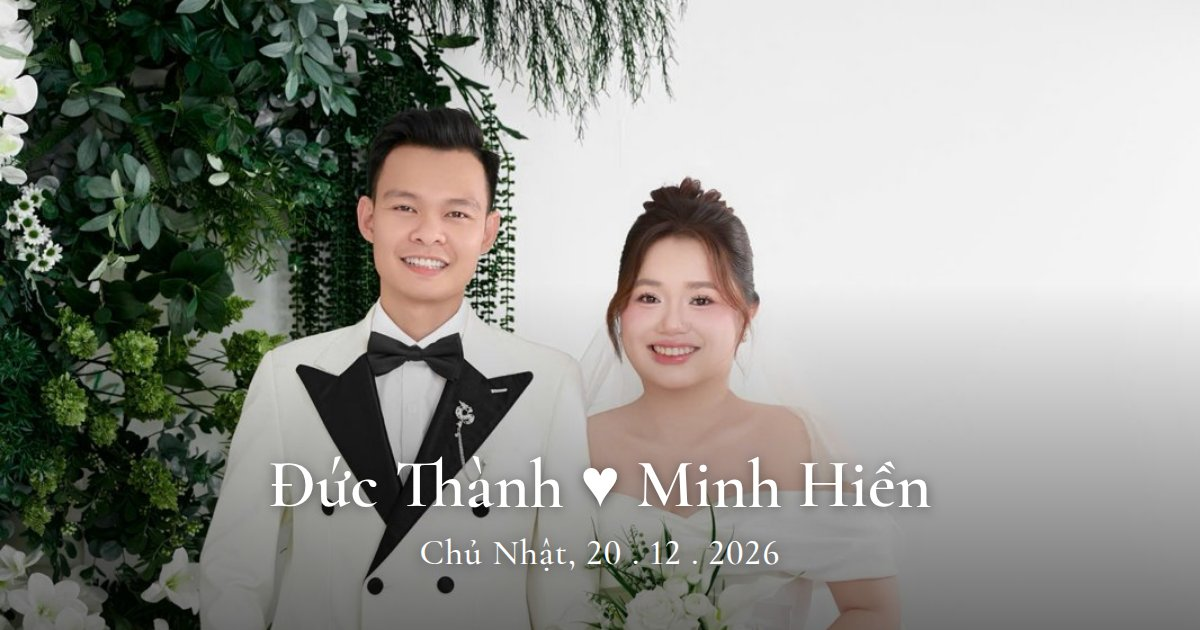
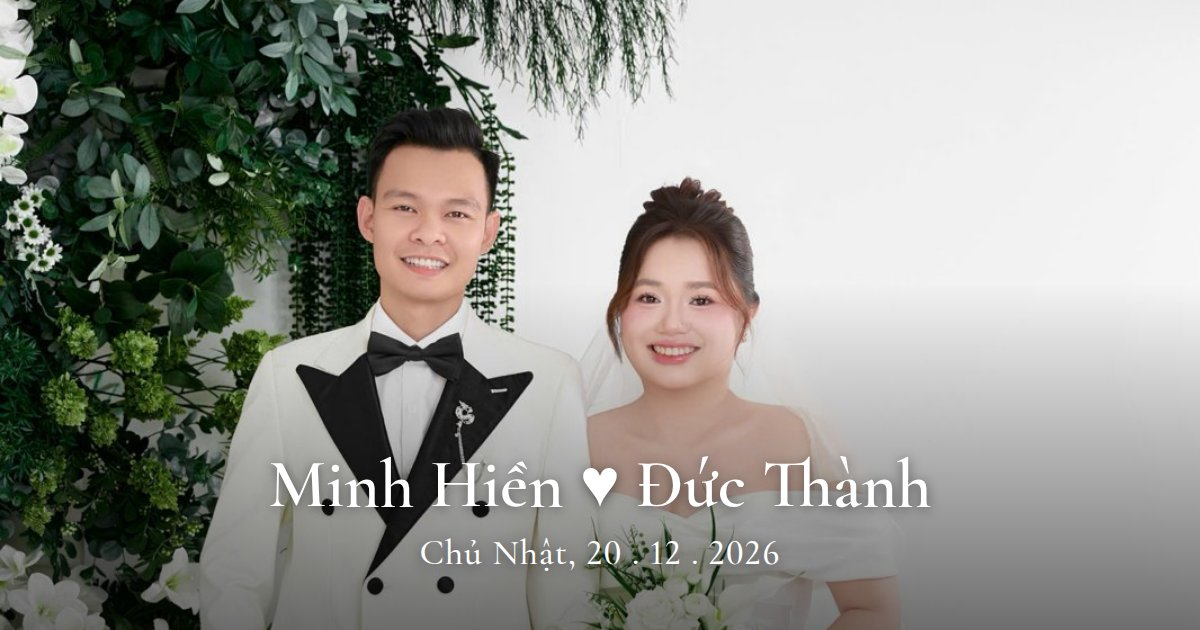
fix: thiệp Minh Hiền & Đức Thành — giữ thứ tự tên cô dâu trước như cũ (khách chỉ yêu cầu đổi phông chữ) (issue #24)

Changed region(s): [[0.2158, 0.7238, 0.4625, 0.8143], [0.5242, 0.7238, 0.7708, 0.8143]]

diff --git a/dist/assets/index-zJI3M-SO.js b/dist/assets/index-zJI3M-SO.js
@@ -97,7 +97,7 @@ Error generating stack: `+i.message+`
  *
  * This source code is licensed under the ISC license.
  * See the LICENSE file in the root directory of this source tree.
- */const rp=yt("X",[["path",{d:"M18 6 6 18",key:"1bl5f8"}],["path",{d:"m6 6 12 12",key:"d8bk6v"}]]),yc="Số nhà 35, Đường Tân Lập, Thôn Thống Nhất, Xã Nông Cống, Tỉnh Thanh Hoá",Wi="Số nhà 274, Đường 520, Thôn Văn Phú, Xã Tượng Lĩnh, Tỉnh Thanh Hoá",lp={label:"Nhà Gái",father:null,mother:null,address:yc},ip={label:"Nhà Trai",father:null,mother:null,address:Wi},op={hero:{subtitle:"Save The Date",names:["Đức Thành","Minh Hiền"]},couple:{groom:{role:"Chú rể",name:"Đức Thành"},bride:{role:"Cô dâu",name:"Minh Hiền"}},families:{sides:[ip,lp],fullNames:["Đức Thành","Minh Hiền"]},invitation:{kicker:"Trân Trọng Kính Mời",defaultGuest:"Quý khách",title:"Đến Dự Và Chia Sẻ Niềm Vui",dateParts:["20","12","2026"]},events:{mapLabel:"Xem vị trí",items:[{id:"tiec-cuoi",title:"Tiệc Mừng Cưới",time:"17:00 | Thứ Bảy",date:"19. 12. 2026",lunar:"( Tức Ngày 11 Tháng 11 Năm Bính Ngọ )",places:[{label:"Tại Tư Gia Nhà Gái",address:yc,mapQuery:"Thống Nhất, Nông Cống, Thanh Hoá"},{label:"Tại Tư Gia Nhà Trai",address:Wi,mapQuery:"Văn Phú, Tượng Lĩnh, Nông Cống, Thanh Hoá"}]},{id:"thanh-hon",title:"Lễ Thành Hôn",time:"09:00 | Chủ Nhật",date:"20. 12. 2026",lunar:"( Tức Ngày 12 Tháng 11 Năm Bính Ngọ )",places:[{label:"Tại Tư Gia Nhà Trai",address:Wi,mapQuery:"Văn Phú, Tượng Lĩnh, Nông Cống, Thanh Hoá"}]}]},countdown:{title:"Đếm Ngược Ngày Vui",target:"2026-12-20T09:00:00+07:00",labels:["Ngày","Giờ","Phút","Giây"]},calendar:{dateIso:"2026-12-20"},rsvp:{show:!1},gift:{button:"Gửi Mừng Cưới",title:"Hộp Quà Mừng Cưới",copyLabel:"Copy STK",copiedLabel:"Đã copy",saveQrLabel:"Lưu ảnh QR",accounts:[{holder:"LUONG THI HIEN",number:"0001277112789",bank:"MB Bank",qr:"/images/qr-mbbank.png"}]},thanks:{title:"Thank You",text:"Từ tận đáy lòng, chúng mình cảm ơn bạn đã dành tình cảm và sự hiện diện cho ngày vui này. Chính bạn đã góp phần làm nên một kỷ niệm hạnh phúc mà chúng mình sẽ luôn trân trọng."},music:{src:"/music/beautiful-in-white.mp3",volume:.45}},Be={hero:"/images/vay-1.jpg",groom:"/images/chu-re.jpg",bride:"/images/co-dau.jpg",dateStrip:["/images/ao-1.jpg","/images/ao-3.jpg","/images/ao-5.jpg"],polaroid:"/images/vay-4.jpg",circle:"/images/ao-4.jpg",album:["/images/vay-3.jpg","/images/ao-2.jpg","/images/ao-6.jpg","/images/nhan.jpg","/images/ao-7.jpg","/images/vay-1.jpg"],gift:"/images/ao-4.jpg",thankYou:"/images/vay-2.jpg"},Ju="guest-links:names",up="/tao-link";function sp(){try{return window.location.pathname.replace(/\/+$/,"")===up}catch{return!1}}function Yl(e,t){return`${e}/?khach=${encodeURIComponent(t)}`}async function ap(e){try{return await navigator.clipboard.writeText(e),!0}catch{const t=document.createElement("textarea");t.value=e,t.style.position="fixed",t.style.opacity="0",document.body.appendChild(t),t.select();const n=document.execCommand("copy");return document.body.removeChild(t),n}}function qu({text:e,label:t="Sao chép",className:n=""}){const[r,l]=P.useState(!1);async function i(){await ap(e)&&(l(!0),setTimeout(()=>l(!1),1500))}return a.jsxs("button",{type:"button",onClick:i,className:`inline-flex shrink-0 items-center gap-1.5 rounded-lg px-3 py-1.5 text-sm font-semibold transition ${r?"bg-green-600 text-white":"bg-[#9e3745] text-white hover:bg-[#7e2b37]"} ${n}`,children:[r?a.jsx(vc,{className:"h-4 w-4","aria-hidden":!0}):a.jsx(gc,{className:"h-4 w-4","aria-hidden":!0}),r?"Đã chép":t]})}function cp(){const e=P.useMemo(()=>window.location.origin,[]),[t,n]=P.useState(()=>{try{return localStorage.getItem(Ju)??""}catch{return""}}),[r,l]=P.useState(!0);P.useEffect(()=>{try{localStorage.setItem(Ju,t)}catch{}},[t]);const i=P.useMemo(()=>{const s=new Set;return t.split(`
+ */const rp=yt("X",[["path",{d:"M18 6 6 18",key:"1bl5f8"}],["path",{d:"m6 6 12 12",key:"d8bk6v"}]]),yc="Số nhà 35, Đường Tân Lập, Thôn Thống Nhất, Xã Nông Cống, Tỉnh Thanh Hoá",Wi="Số nhà 274, Đường 520, Thôn Văn Phú, Xã Tượng Lĩnh, Tỉnh Thanh Hoá",lp={label:"Nhà Gái",father:null,mother:null,address:yc},ip={label:"Nhà Trai",father:null,mother:null,address:Wi},op={hero:{subtitle:"Save The Date",names:["Minh Hiền","Đức Thành"]},couple:{groom:{role:"Chú rể",name:"Đức Thành"},bride:{role:"Cô dâu",name:"Minh Hiền"}},families:{sides:[lp,ip],fullNames:["Minh Hiền","Đức Thành"]},invitation:{kicker:"Trân Trọng Kính Mời",defaultGuest:"Quý khách",title:"Đến Dự Và Chia Sẻ Niềm Vui",dateParts:["20","12","2026"]},events:{mapLabel:"Xem vị trí",items:[{id:"tiec-cuoi",title:"Tiệc Mừng Cưới",time:"17:00 | Thứ Bảy",date:"19. 12. 2026",lunar:"( Tức Ngày 11 Tháng 11 Năm Bính Ngọ )",places:[{label:"Tại Tư Gia Nhà Gái",address:yc,mapQuery:"Thống Nhất, Nông Cống, Thanh Hoá"},{label:"Tại Tư Gia Nhà Trai",address:Wi,mapQuery:"Văn Phú, Tượng Lĩnh, Nông Cống, Thanh Hoá"}]},{id:"thanh-hon",title:"Lễ Thành Hôn",time:"09:00 | Chủ Nhật",date:"20. 12. 2026",lunar:"( Tức Ngày 12 Tháng 11 Năm Bính Ngọ )",places:[{label:"Tại Tư Gia Nhà Trai",address:Wi,mapQuery:"Văn Phú, Tượng Lĩnh, Nông Cống, Thanh Hoá"}]}]},countdown:{title:"Đếm Ngược Ngày Vui",target:"2026-12-20T09:00:00+07:00",labels:["Ngày","Giờ","Phút","Giây"]},calendar:{dateIso:"2026-12-20"},rsvp:{show:!1},gift:{button:"Gửi Mừng Cưới",title:"Hộp Quà Mừng Cưới",copyLabel:"Copy STK",copiedLabel:"Đã copy",saveQrLabel:"Lưu ảnh QR",accounts:[{holder:"LUONG THI HIEN",number:"0001277112789",bank:"MB Bank",qr:"/images/qr-mbbank.png"}]},thanks:{title:"Thank You",text:"Từ tận đáy lòng, chúng mình cảm ơn bạn đã dành tình cảm và sự hiện diện cho ngày vui này. Chính bạn đã góp phần làm nên một kỷ niệm hạnh phúc mà chúng mình sẽ luôn trân trọng."},music:{src:"/music/beautiful-in-white.mp3",volume:.45}},Be={hero:"/images/vay-1.jpg",groom:"/images/chu-re.jpg",bride:"/images/co-dau.jpg",dateStrip:["/images/ao-1.jpg","/images/ao-3.jpg","/images/ao-5.jpg"],polaroid:"/images/vay-4.jpg",circle:"/images/ao-4.jpg",album:["/images/vay-3.jpg","/images/ao-2.jpg","/images/ao-6.jpg","/images/nhan.jpg","/images/ao-7.jpg","/images/vay-1.jpg"],gift:"/images/ao-4.jpg",thankYou:"/images/vay-2.jpg"},Ju="guest-links:names",up="/tao-link";function sp(){try{return window.location.pathname.replace(/\/+$/,"")===up}catch{return!1}}function Yl(e,t){return`${e}/?khach=${encodeURIComponent(t)}`}async function ap(e){try{return await navigator.clipboard.writeText(e),!0}catch{const t=document.createElement("textarea");t.value=e,t.style.position="fixed",t.style.opacity="0",document.body.appendChild(t),t.select();const n=document.execCommand("copy");return document.body.removeChild(t),n}}function qu({text:e,label:t="Sao chép",className:n=""}){const[r,l]=P.useState(!1);async function i(){await ap(e)&&(l(!0),setTimeout(()=>l(!1),1500))}return a.jsxs("button",{type:"button",onClick:i,className:`inline-flex shrink-0 items-center gap-1.5 rounded-lg px-3 py-1.5 text-sm font-semibold transition ${r?"bg-green-600 text-white":"bg-[#9e3745] text-white hover:bg-[#7e2b37]"} ${n}`,children:[r?a.jsx(vc,{className:"h-4 w-4","aria-hidden":!0}):a.jsx(gc,{className:"h-4 w-4","aria-hidden":!0}),r?"Đã chép":t]})}function cp(){const e=P.useMemo(()=>window.location.origin,[]),[t,n]=P.useState(()=>{try{return localStorage.getItem(Ju)??""}catch{return""}}),[r,l]=P.useState(!0);P.useEffect(()=>{try{localStorage.setItem(Ju,t)}catch{}},[t]);const i=P.useMemo(()=>{const s=new Set;return t.split(`
 `).map(f=>f.replace(/\s+/g," ").trim()).filter(f=>f&&!s.has(f.toLowerCase())&&s.add(f.toLowerCase()))},[t]),o=i.map(s=>r?`${s}: ${Yl(e,s)}`:Yl(e,s)),u=document.title;return a.jsx("div",{className:"min-h-screen bg-[#f8f6f2] px-4 py-8 font-sans text-[#1f1f1f]",children:a.jsxs("main",{className:"mx-auto max-w-[640px]",children:[a.jsx("h1",{className:"text-2xl font-bold",children:"Tạo link mời khách"}),a.jsxs("p",{className:"mt-1 text-sm text-black/60",children:["Thiệp: ",a.jsx("b",{children:u})]}),a.jsx("label",{className:"mt-6 block text-sm font-semibold",htmlFor:"guest-names",children:"Tên khách mời — mỗi dòng một người, ghi cả xưng hô (vd: Cô Lan, Gia đình bác Hùng, Anh Tuấn)"}),a.jsx("textarea",{id:"guest-names",value:t,onChange:s=>n(s.target.value),rows:8,placeholder:`Cô Lan
 Gia đình bác Hùng
 Anh Tuấn & chị Mai`,className:"mt-2 w-full rounded-xl border border-black/20 bg-white p-3 text-base outline-none focus:border-[#9e3745]"}),a.jsx("p",{className:"mt-1 text-xs text-black/50",children:"Danh sách được lưu trên trình duyệt này, mở lại trang vẫn còn."}),i.length>0&&a.jsxs(a.Fragment,{children:[a.jsxs("div",{className:"mt-6 flex flex-wrap items-center justify-between gap-3",children:[a.jsxs("p",{className:"font-semibold",children:[i.length," link"]}),a.jsxs("div",{className:"flex items-center gap-3",children:[a.jsxs("label",{className:"flex items-center gap-1.5 text-sm",children:[a.jsx("input",{type:"checkbox",checked:r,onChange:s=>l(s.target.checked)}),"Kèm tên khi chép tất cả"]}),a.jsx(qu,{text:o.join(`

diff --git a/dist/index.html b/dist/index.html
@@ -3,20 +3,20 @@
   <head>
     <meta charset="UTF-8" />
     <meta name="viewport" content="width=device-width, initial-scale=1.0" />
-    <title>Đức Thành &amp; Minh Hiền</title>
-    <meta name="description" content="Thiệp cưới Đức Thành &amp; Minh Hiền — Chủ Nhật, 20.12.2026. Trân trọng kính mời." />
+    <title>Minh Hiền &amp; Đức Thành</title>
+    <meta name="description" content="Thiệp cưới Minh Hiền &amp; Đức Thành — Chủ Nhật, 20.12.2026. Trân trọng kính mời." />
     <!-- Link preview (Zalo, Facebook, iMessage, v.v.) dùng og:title / og:description -->
     <meta property="og:type" content="website" />
-    <meta property="og:site_name" content="Đức Thành &amp; Minh Hiền" />
-    <meta property="og:title" content="Đức Thành &amp; Minh Hiền" />
-    <meta property="og:description" content="Thiệp cưới Đức Thành &amp; Minh Hiền — Chủ Nhật, 20.12.2026. Trân trọng kính mời." />
+    <meta property="og:site_name" content="Minh Hiền &amp; Đức Thành" />
+    <meta property="og:title" content="Minh Hiền &amp; Đức Thành" />
+    <meta property="og:description" content="Thiệp cưới Minh Hiền &amp; Đức Thành — Chủ Nhật, 20.12.2026. Trân trọng kính mời." />
     <meta property="og:locale" content="vi_VN" />
     <meta property="og:image" content="https://minhhien-ducthanh.vercel.app/images/og.jpg" />
     <meta property="og:image:width" content="1200" />
     <meta property="og:image:height" content="630" />
     <meta name="twitter:card" content="summary_large_image" />
-    <meta name="twitter:title" content="Đức Thành &amp; Minh Hiền" />
-    <meta name="twitter:description" content="Thiệp cưới Đức Thành &amp; Minh Hiền — Chủ Nhật, 20.12.2026. Trân trọng kính mời." />
+    <meta name="twitter:title" content="Minh Hiền &amp; Đức Thành" />
+    <meta name="twitter:description" content="Thiệp cưới Minh Hiền &amp; Đức Thành — Chủ Nhật, 20.12.2026. Trân trọng kính mời." />
     <meta name="twitter:image" content="https://minhhien-ducthanh.vercel.app/images/og.jpg" />
     <link rel="preconnect" href="https://fonts.googleapis.com" />
     <link rel="preconnect" href="https://fonts.gstatic.com" crossorigin />
@@ -24,7 +24,7 @@
       href="https://fonts.googleapis.com/css2?family=Cormorant+Upright:wght@400;600&family=Ephesis&family=Great+Vibes&family=Imperial+Script&family=Cormorant+Garamond:wght@400;500;600;700&family=Montserrat:wght@400;500;600;700&family=Quicksand:wght@400;500;600;700&family=Tinos:ital,wght@0,400;0,700;1,400&display=swap"
       rel="stylesheet"
     />
-    <script type="module" crossorigin src="/assets/index-DyCHa9XF.js"></script>
+    <script type="module" crossorigin src="/assets/index-zJI3M-SO.js"></script>
     <link rel="stylesheet" crossorigin href="/assets/index-NQ9bJv8b.css">
   </head>
   <body>

diff --git a/index.html b/index.html
@@ -3,20 +3,20 @@
   <head>
     <meta charset="UTF-8" />
     <meta name="viewport" content="width=device-width, initial-scale=1.0" />
-    <title>Đức Thành &amp; Minh Hiền</title>
-    <meta name="description" content="Thiệp cưới Đức Thành &amp; Minh Hiền — Chủ Nhật, 20.12.2026. Trân trọng kính mời." />
+    <title>Minh Hiền &amp; Đức Thành</title>
+    <meta name="description" content="Thiệp cưới Minh Hiền &amp; Đức Thành — Chủ Nhật, 20.12.2026. Trân trọng kính mời." />
     <!-- Link preview (Zalo, Facebook, iMessage, v.v.) dùng og:title / og:description -->
     <meta property="og:type" content="website" />
-    <meta property="og:site_name" content="Đức Thành &amp; Minh Hiền" />
-    <meta property="og:title" content="Đức Thành &amp; Minh Hiền" />
-    <meta property="og:description" content="Thiệp cưới Đức Thành &amp; Minh Hiền — Chủ Nhật, 20.12.2026. Trân trọng kính mời." />
+    <meta property="og:site_name" content="Minh Hiền &amp; Đức Thành" />
+    <meta property="og:title" content="Minh Hiền &amp; Đức Thành" />
+    <meta property="og:description" content="Thiệp cưới Minh Hiền &amp; Đức Thành — Chủ Nhật, 20.12.2026. Trân trọng kính mời." />
     <meta property="og:locale" content="vi_VN" />
     <meta property="og:image" content="https://minhhien-ducthanh.vercel.app/images/og.jpg" />
     <meta property="og:image:width" content="1200" />
     <meta property="og:image:height" content="630" />
     <meta name="twitter:card" content="summary_large_image" />
-    <meta name="twitter:title" content="Đức Thành &amp; Minh Hiền" />
-    <meta name="twitter:description" content="Thiệp cưới Đức Thành &amp; Minh Hiền — Chủ Nhật, 20.12.2026. Trân trọng kính mời." />
+    <meta name="twitter:title" content="Minh Hiền &amp; Đức Thành" />
+    <meta name="twitter:description" content="Thiệp cưới Minh Hiền &amp; Đức Thành — Chủ Nhật, 20.12.2026. Trân trọng kính mời." />
     <meta name="twitter:image" content="https://minhhien-ducthanh.vercel.app/images/og.jpg" />
     <link rel="preconnect" href="https://fonts.googleapis.com" />
     <link rel="preconnect" href="https://fonts.gstatic.com" crossorigin />

diff --git a/src/content.js b/src/content.js
@@ -23,7 +23,7 @@ export const content = {
   hero: {
     subtitle: 'Save The Date',
     /** Hiển thị theo đúng thứ tự này */
-    names: ['Đức Thành', 'Minh Hiền'],
+    names: ['Minh Hiền', 'Đức Thành'],
     dateLine: '20 . 12 . 2026',
   },
 
@@ -35,9 +35,9 @@ export const content = {
 
   families: {
     /** Hai cột gia đình, hiển thị trái → phải theo thứ tự này */
-    sides: [GROOM_SIDE, BRIDE_SIDE],
+    sides: [BRIDE_SIDE, GROOM_SIDE],
     /** Tên cô dâu & chú rể — dòng ký tên cuối mục Thank You */
-    fullNames: ['Đức Thành', 'Minh Hiền'],
+    fullNames: ['Minh Hiền', 'Đức Thành'],
   },
 
   invitation: {
